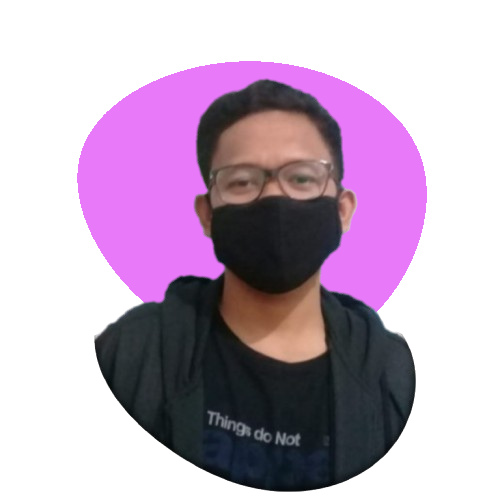
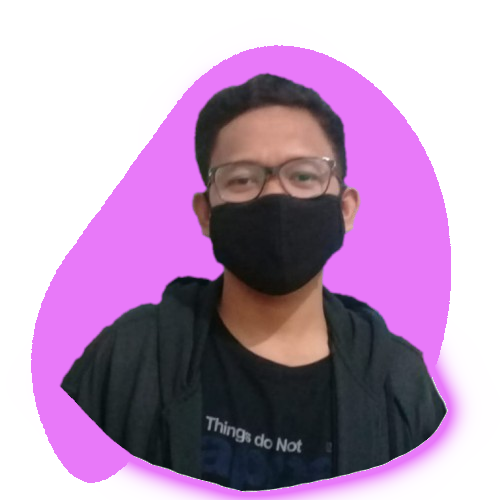
Fixed My Photo

diff --git a/_layouts/landing_page.html b/_layouts/landing_page.html
@@ -31,9 +31,8 @@
                             </a>
                         </div>
 
-                        <div class="mt-10 sm:w-full md:w-auto lg:w-auto self-end px-4">
+                        <div class="sm:w-full md:w-auto lg:w-auto self-end px-4">
                             <img src="https://raw.githubusercontent.com/adearya/ade-arya-portfolio/gh-pages/assets/ade_arya_bimantara.png" alt="Ade Arya Bimantara" class="max-w-full mx-auto">
-                            <!-- <img src="/assets/ade_arya_bimantara.png" alt="Ade Arya Bimantara" class="max-w-full mx-auto"> -->
                         </div>
                     </div>
                 </div>
